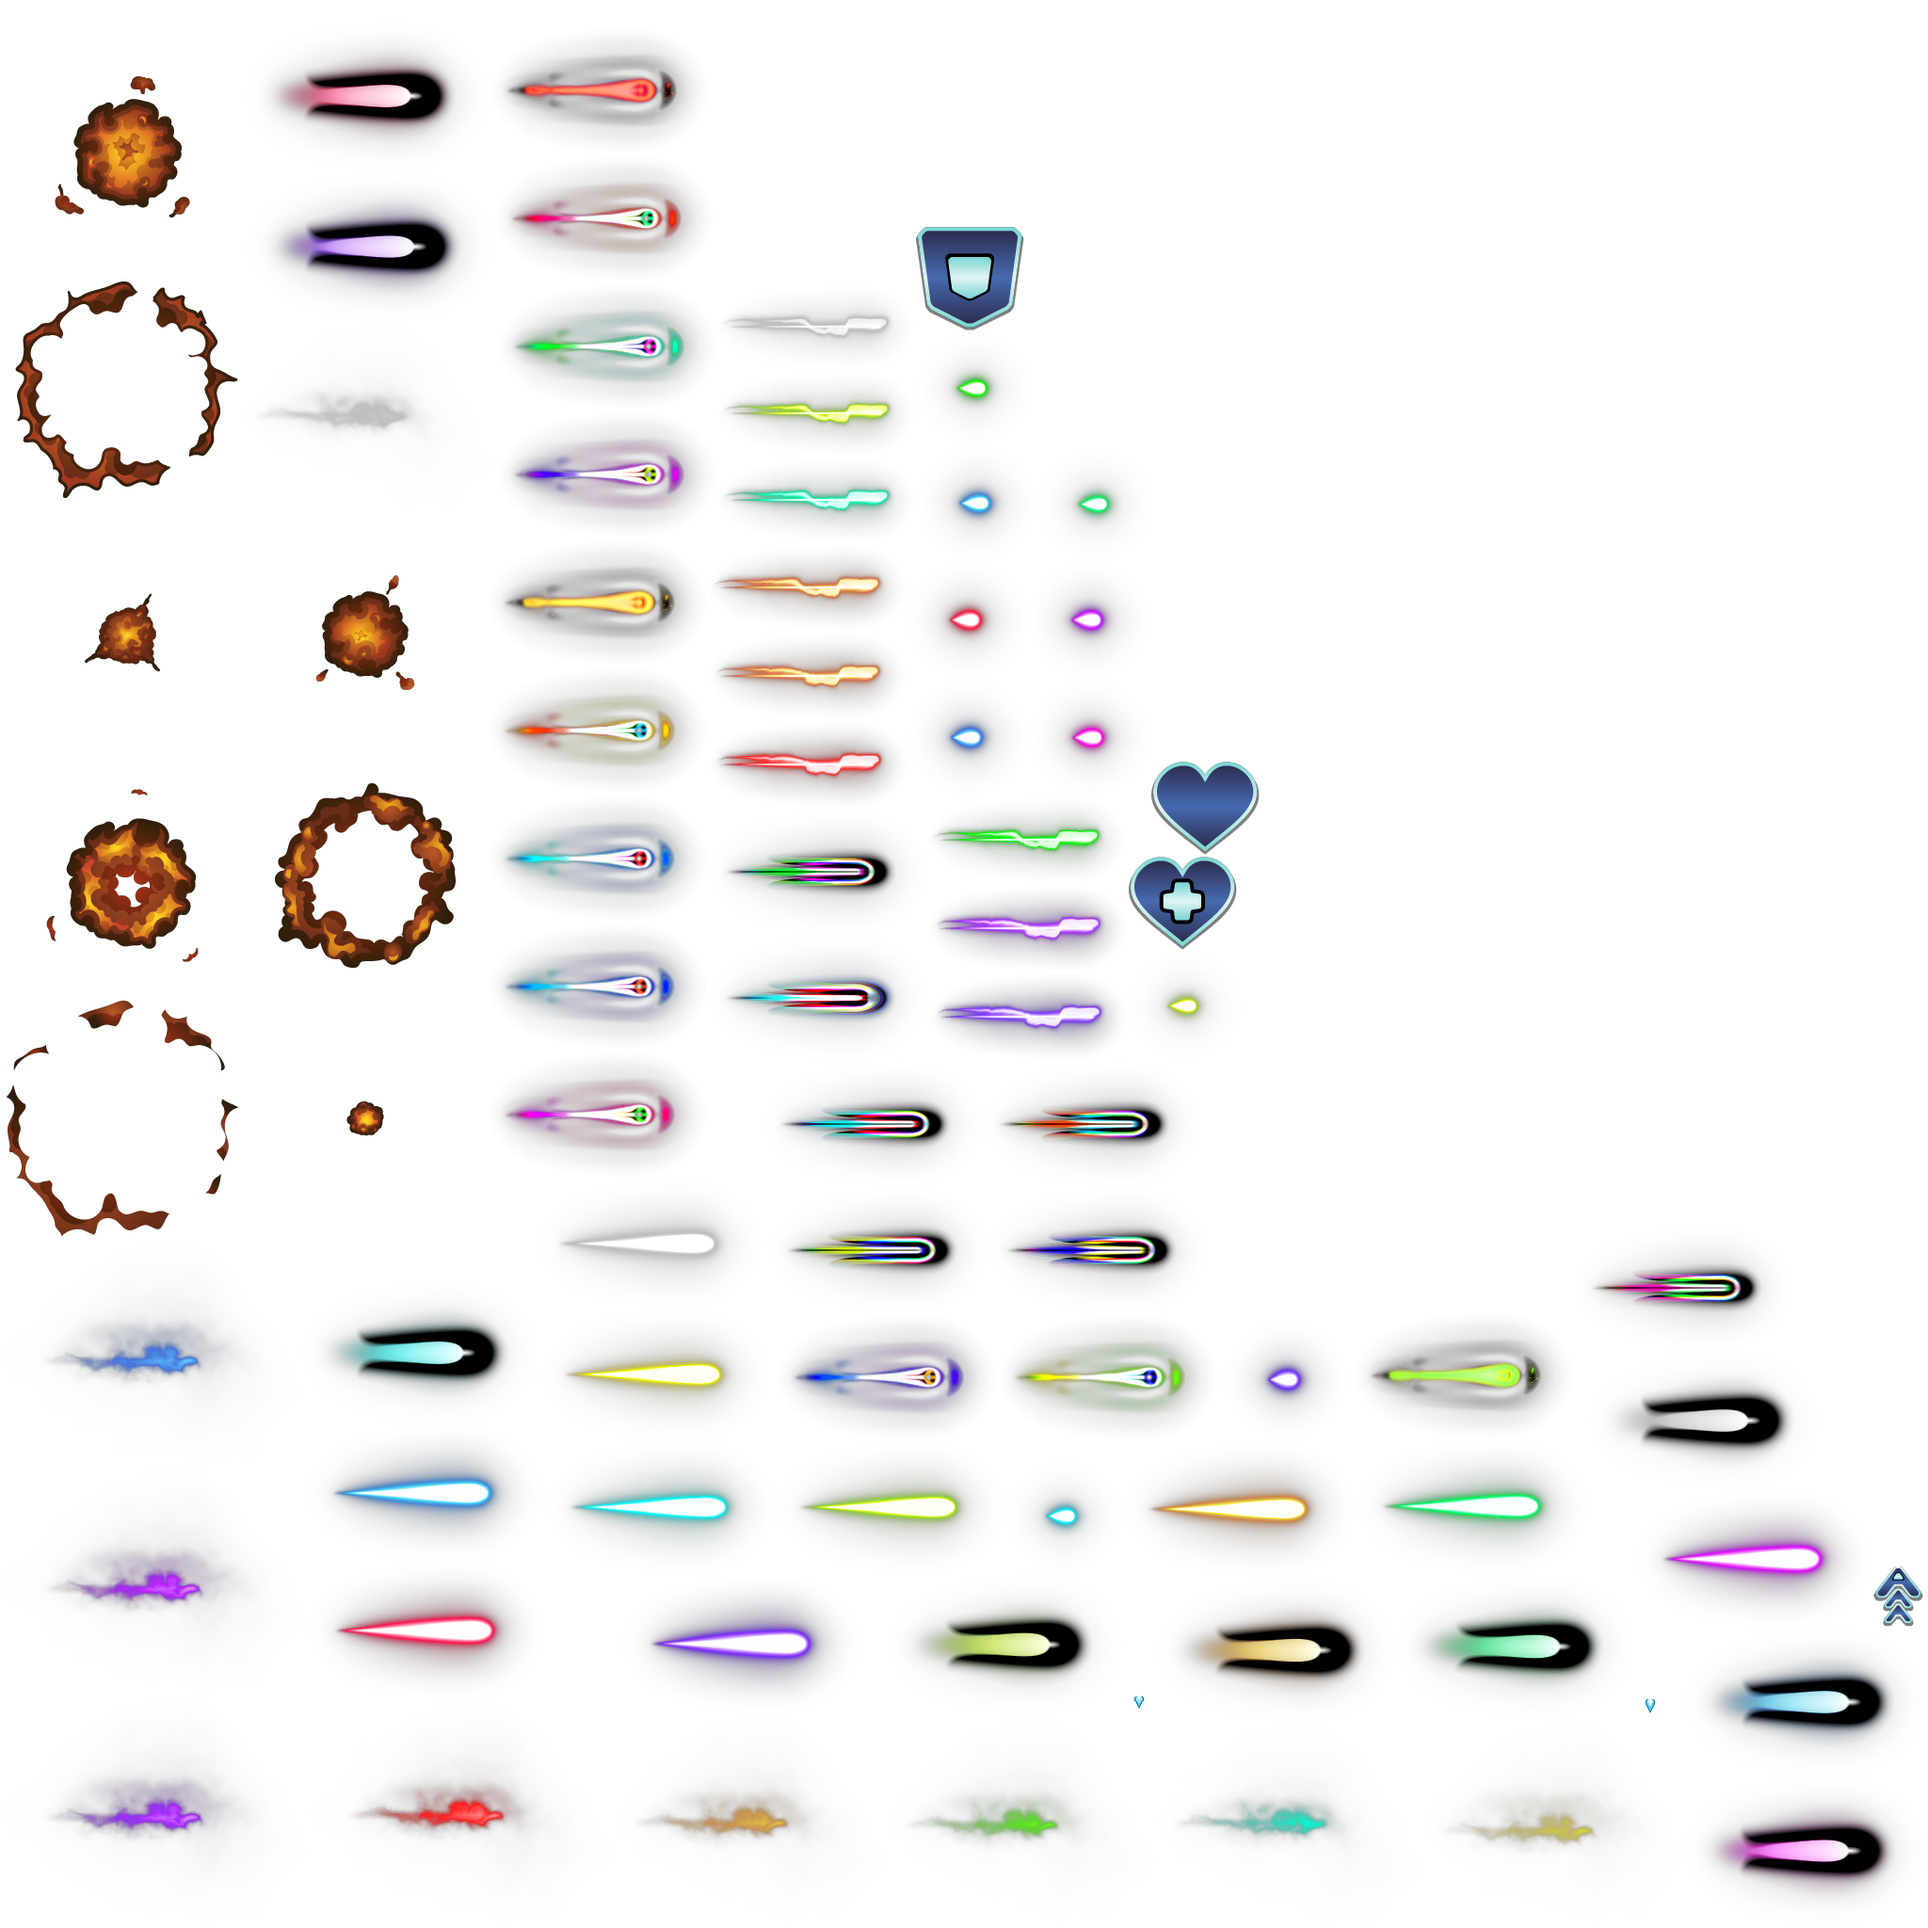
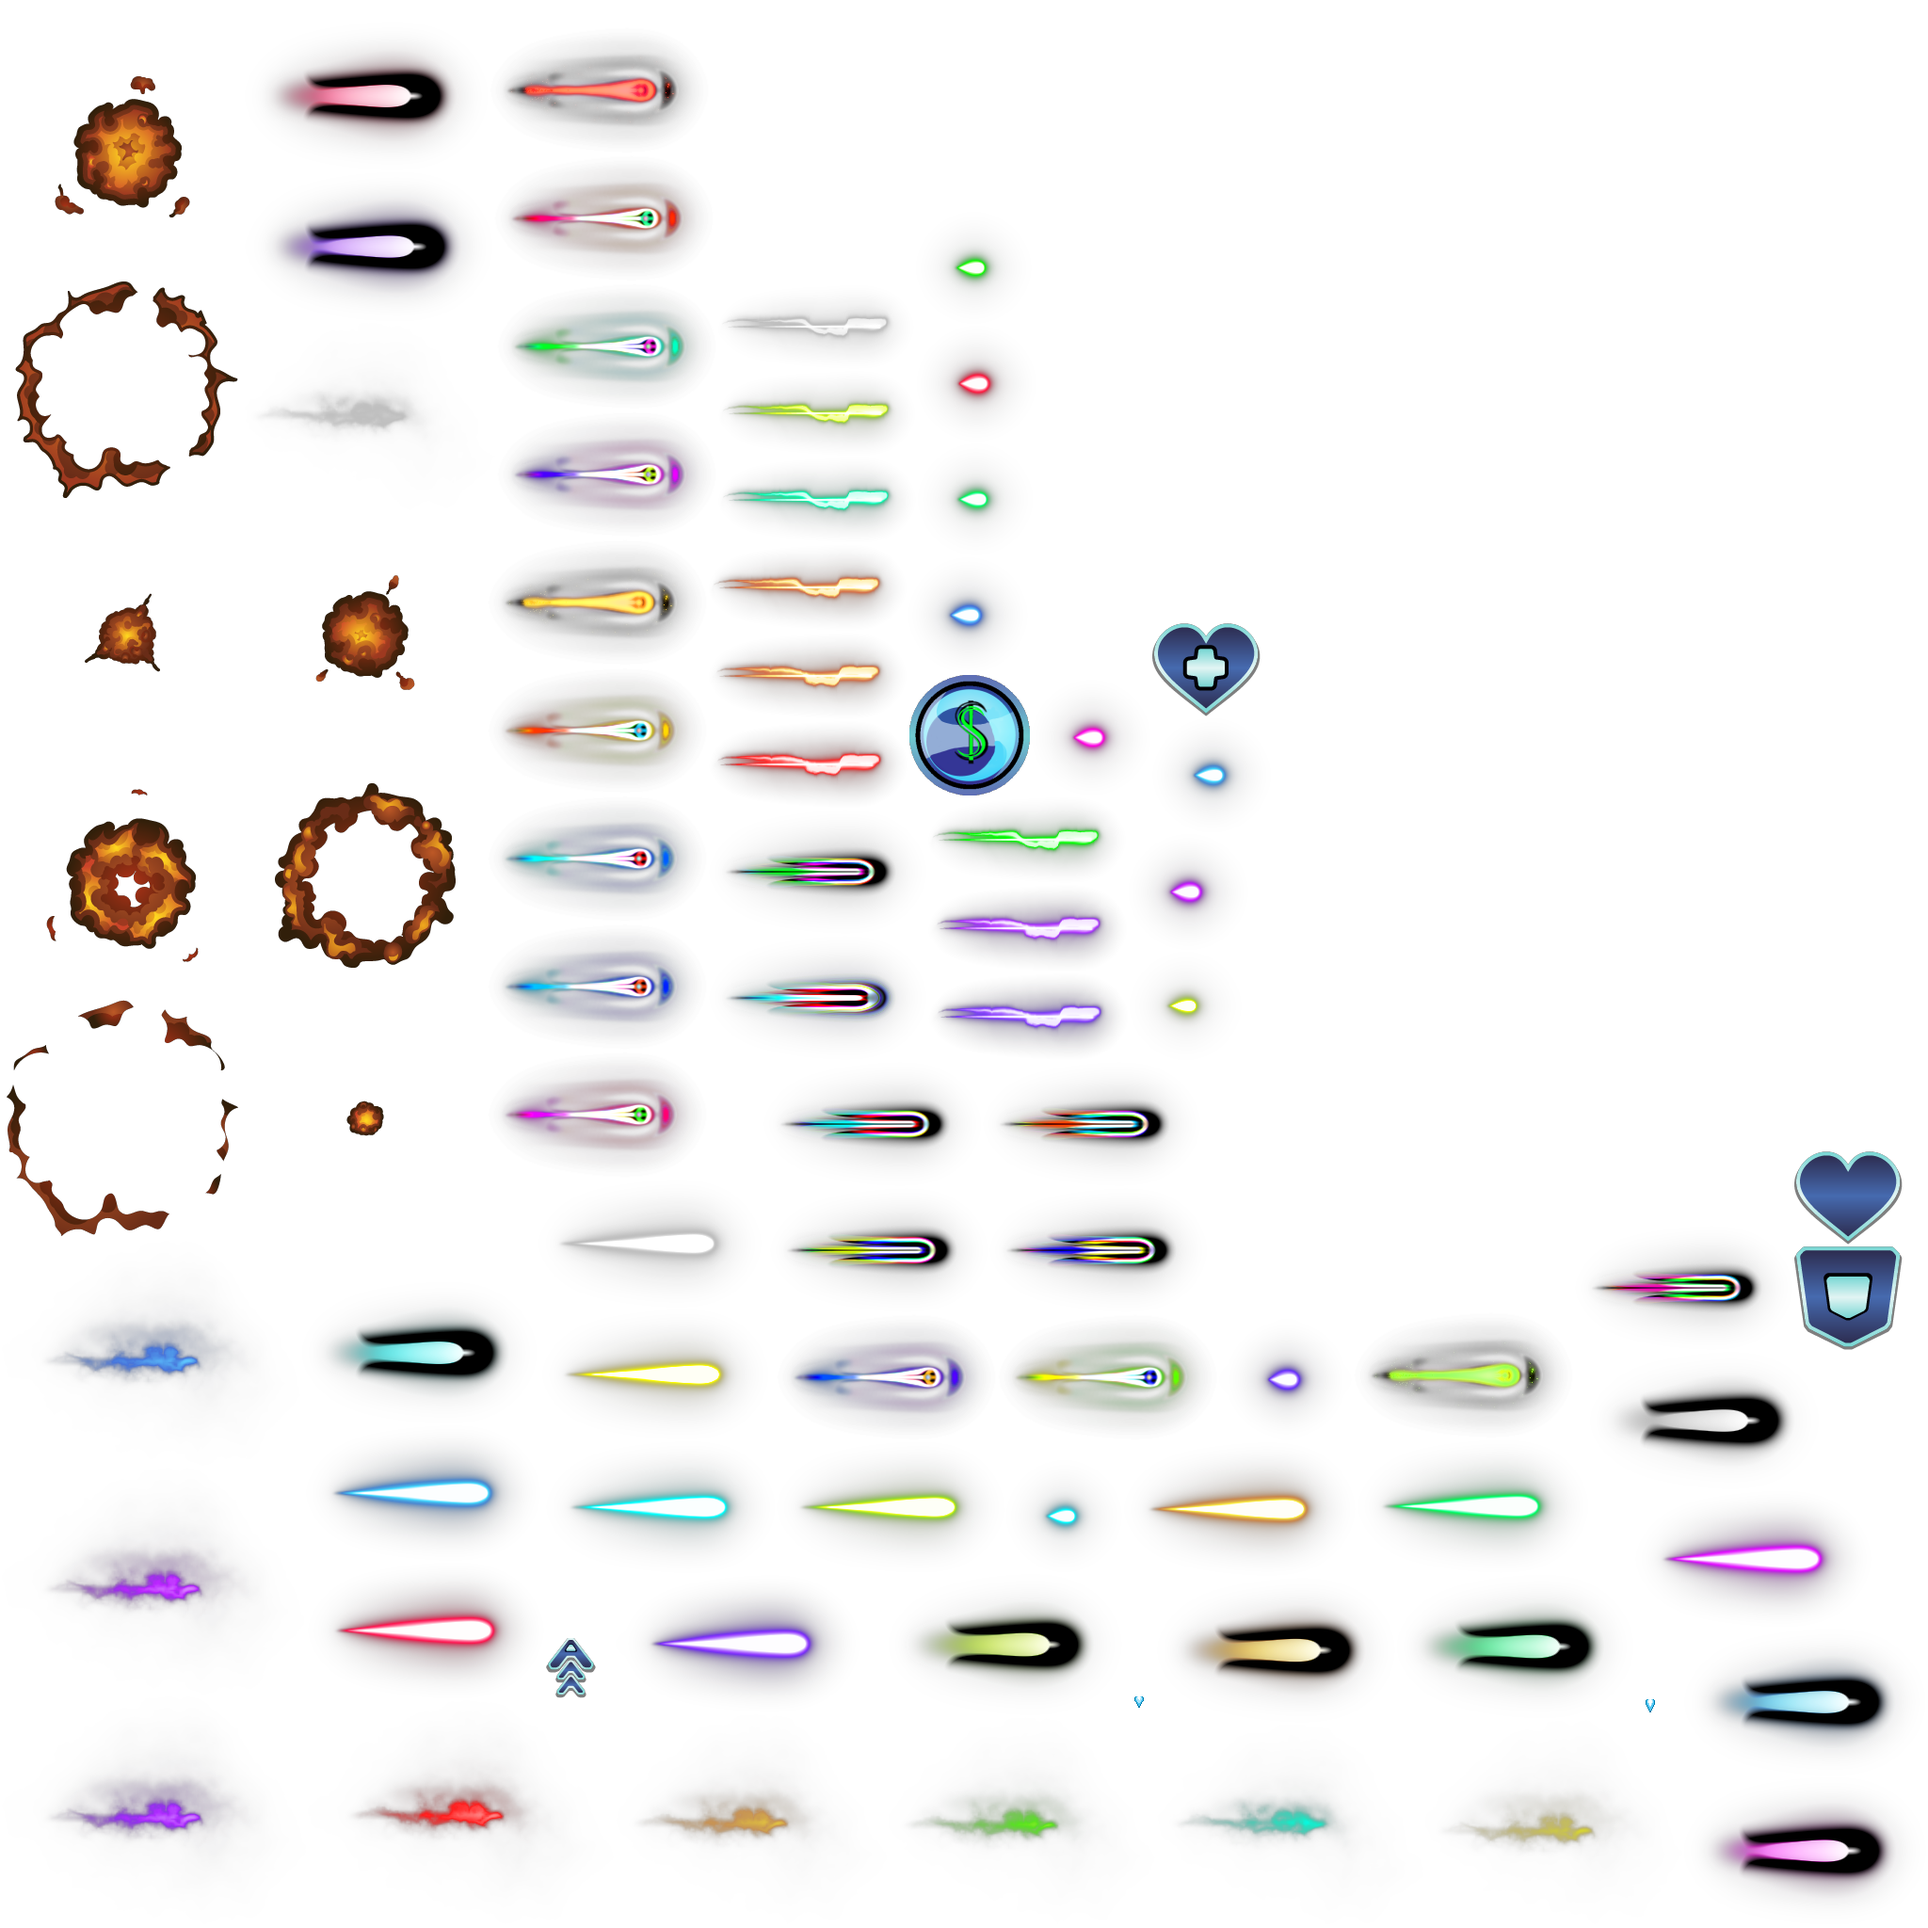
Add cash bonus

diff --git a/core/src/com/astroblaze/Bonuses/PlayerBonusCash.java b/core/src/com/astroblaze/Bonuses/PlayerBonusCash.java
@@ -1,0 +1,24 @@
+package com.astroblaze.Bonuses;
+
+import com.astroblaze.Assets;
+import com.astroblaze.AstroblazeGame;
+import com.astroblaze.Interfaces.IPlayerBonus;
+import com.astroblaze.Rendering.PlayerShip;
+import com.badlogic.gdx.graphics.g2d.TextureAtlas;
+
+public class PlayerBonusCash implements IPlayerBonus {
+    @Override
+    public TextureAtlas.AtlasRegion getDecalTexture() {
+        return Assets.asset(Assets.atlas).findRegion("money_drop");
+    }
+
+    @Override
+    public float getDecalScale() {
+        return 0.075f;
+    }
+
+    @Override
+    public void applyBonus(PlayerShip playerShip) {
+        AstroblazeGame.getPlayerState().modPlayerMoney(1000f);
+    }
+}

diff --git a/core/src/com/astroblaze/Rendering/Scene3D.java b/core/src/com/astroblaze/Rendering/Scene3D.java
@@ -66,6 +66,7 @@ public class Scene3D implements ILoadingFinishedListener {
 
     private void setupBonusDistribution() {
         bonusDistribution.add(50, null);
+        bonusDistribution.add(40, new PlayerBonusCash());
         bonusDistribution.add(40, new PlayerBonusMissiles());
         bonusDistribution.add(20, new PlayerBonusShieldRestore());
         bonusDistribution.add(2, new PlayerBonusLife());
